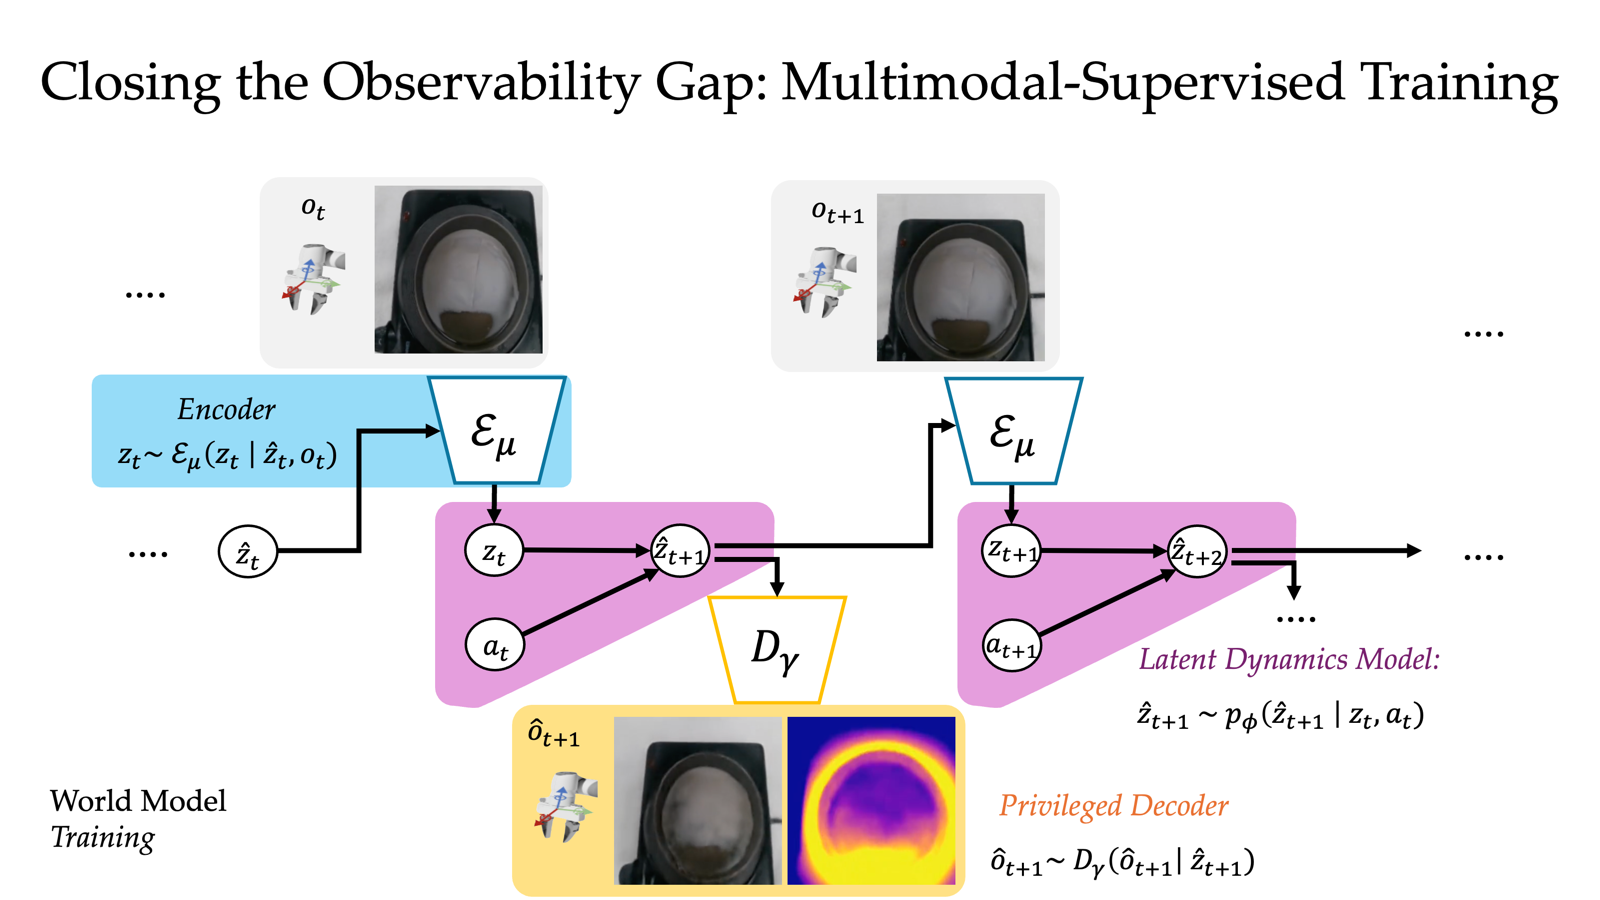
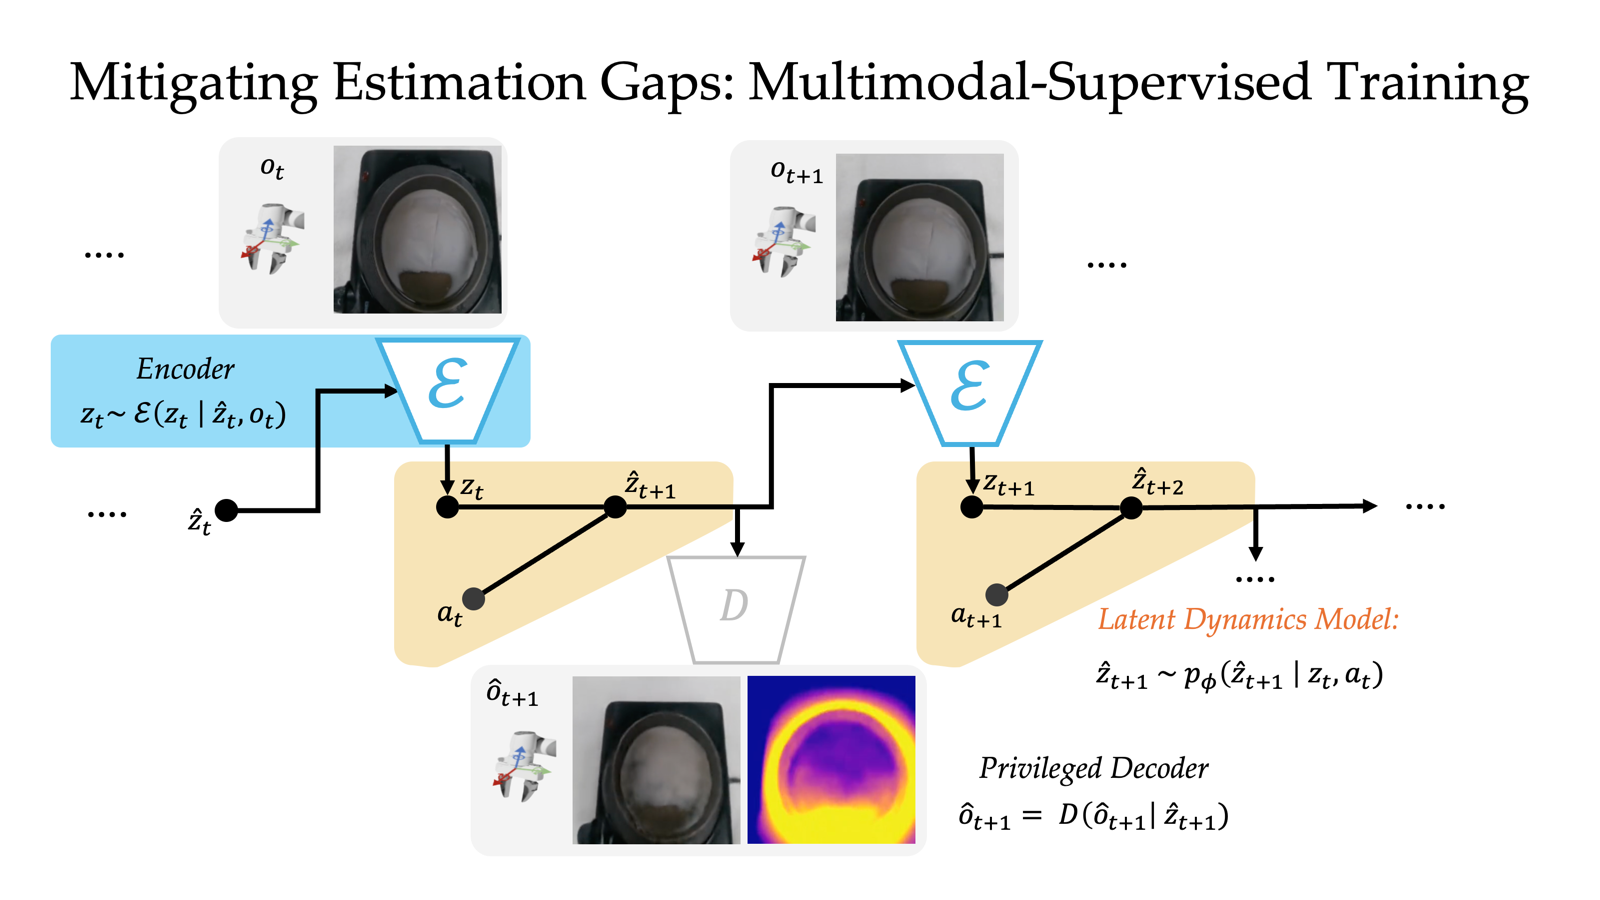
updated images

Changed region(s): [[0.0312, 0.1556, 0.9062, 1.0], [0.0312, 0.0622, 0.9688, 0.1244], [0.0312, 0.8711, 0.1562, 0.9644]]

diff --git a/index.html b/index.html
@@ -301,9 +301,6 @@
           </p>
           <figure class="image is-centered">
             <img src="static/images/wm_training.png" alt="World Models shape latent states by reconstructing observations">
-            <figcaption style="color: red; font-size: 0.9rem; margin-top: 0.5rem;">
-              replace
-            </figcaption>
           </figure>
           <p>
             However, the controller can only be as reliable as the latent representation it receives.
@@ -318,6 +315,9 @@
             diagnose both gaps and test mitigation strategies that make latent safe control more
             reliable under partial observability.
           </p>
+          <figure class="image is-centered">
+            <img src="static/images/failure_modes.png" alt="Estimation gaps and prediction gaps in latent safe control">
+          </figure>
         </div>
       </div>
     </div>
@@ -338,10 +338,6 @@
           </p>
           <figure class="image is-centered">
 	            <img src="static/images/mm_envs.png" alt="Hardware environments for studying partially observable safety constraints">
-
-            <figcaption style="color: red; font-size: 0.9rem; margin-top: 0.5rem;">
-              replace
-            </figcaption>
           </figure>
 
           <p>
